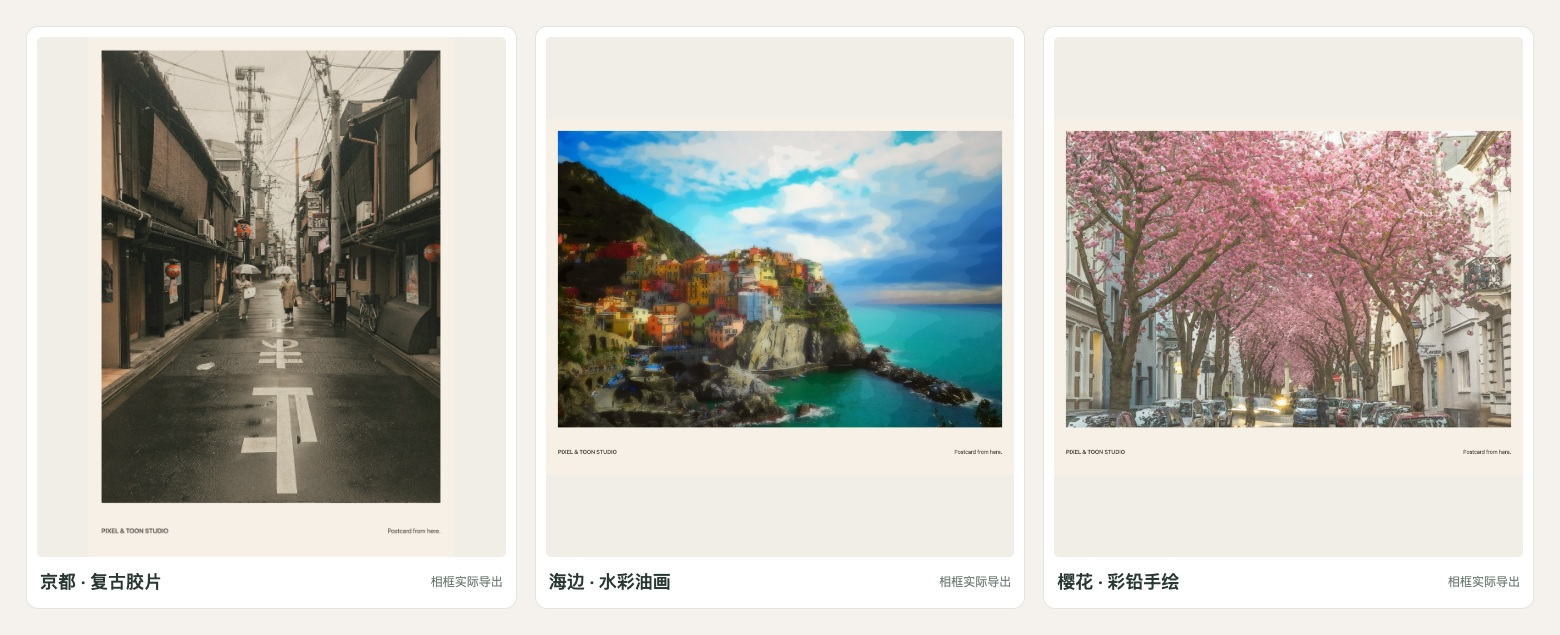
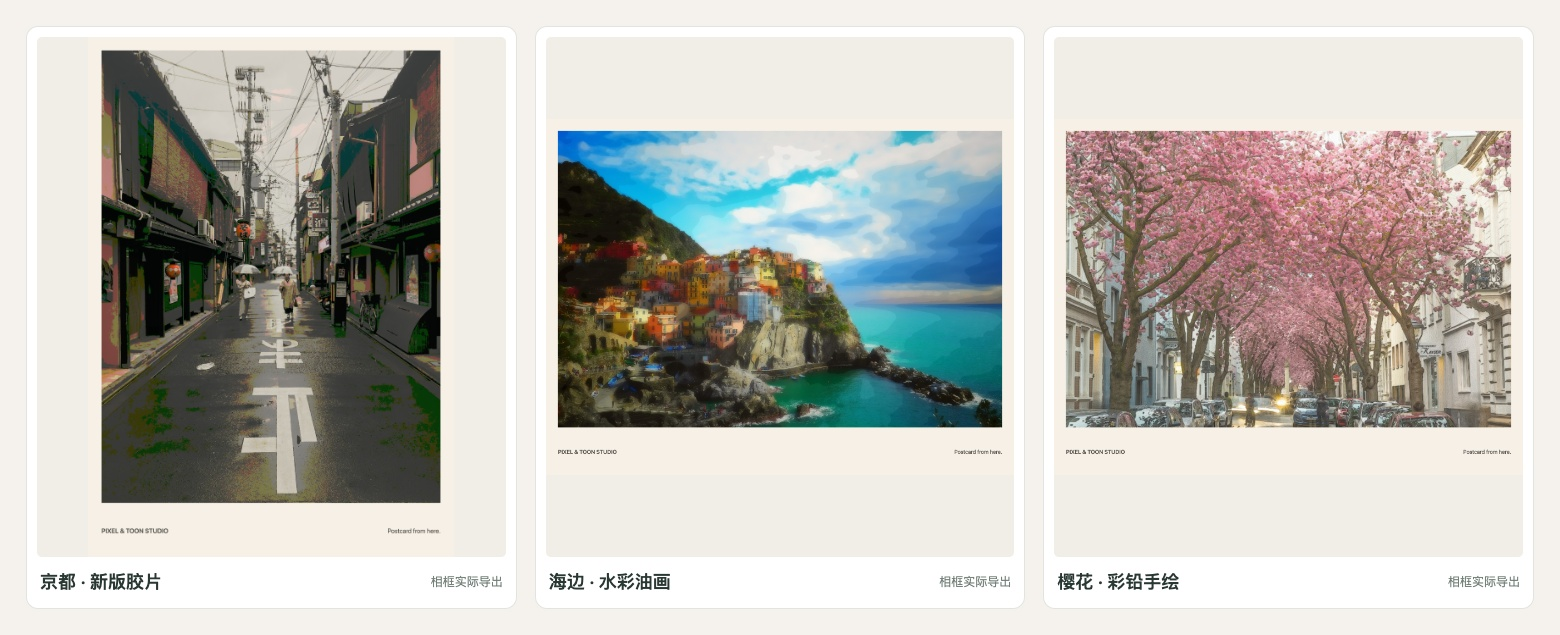
feat: strengthen vintage film and refresh Americana showcase

diff --git a/src/worker/styles/film.ts b/src/worker/styles/film.ts
@@ -6,10 +6,22 @@ import type { StyleContext } from '../shared/sampling';
 
 export const FILM = { blackLift: 31, whiteCeiling: 233, saturationLoss: .25, redGain: 22, blueGain: -25 } as const;
 export function filmRadius(halation: number, scale: number): number { return Math.ceil((4 + halation * .18) * scale); }
+export function filmSmearRadius(smear: number, scale: number): number { return smear > 0 ? Math.ceil((1 + smear * .06) * scale) : 0; }
 
 export function film(src: Uint8ClampedArray, w: number, h: number, p: Record<string, number>, ctx: StyleContext): Uint8ClampedArray {
     const out = new Uint8ClampedArray(src.length), fade = p.fade / 100, warmth = p.warmth / 100;
     const halo = p.halation / 100;
+    const smear = Math.max(0, Math.min(100, p.smear ?? 0));
+    let base = src;
+    if (smear > 0) {
+        base = src.slice();
+        const channel = new Float32Array(w * h), mix = smear / 100 * .9;
+        for (let c = 0; c < 3; c++) {
+            for (let q = 0; q < channel.length; q++) channel[q] = src[q * 4 + c];
+            const softened = boxBlur(channel, w, h, filmSmearRadius(smear, ctx.scale));
+            for (let q = 0; q < channel.length; q++) base[q * 4 + c] = src[q * 4 + c] * (1 - mix) + softened[q] * mix;
+        }
+    }
     let glow: Float32Array | null = null, mask: Float32Array | null = null;
     if (halo > 0) {
         mask = new Float32Array(w * h);
@@ -21,12 +33,12 @@ export function film(src: Uint8ClampedArray, w: number, h: number, p: Record<str
     }
     for (let y = 0; y < h; y++) for (let x = 0; x < w; x++) {
         const q = y * w + x, i = q * 4;
-        const lum = luminance(src[i], src[i + 1], src[i + 2]);
+        const lum = luminance(base[i], base[i + 1], base[i + 2]);
         const exposureGate = .45 + .55 * Math.sin(Math.PI * lum / 255);
         const spread = glow && mask ? Math.max(0, glow[q] - mask[q] * .65) * halo : 0;
         const grain = p.grain > 0 ? grainAt(ctx.originX + x, ctx.originY + y, ctx.scale, GRAIN_SEED) * p.grain * .38 * (1.2 - lum / 510) : 0;
         for (let c = 0; c < 3; c++) {
-            const desaturated = lum + (src[i + c] - lum) * (1 - FILM.saturationLoss * fade);
+            const desaturated = lum + (base[i + c] - lum) * (1 - FILM.saturationLoss * fade);
             const faded = FILM.blackLift + desaturated * (FILM.whiteCeiling - FILM.blackLift) / 255;
             const color = desaturated * (1 - fade) + faded * fade;
             const temperature = warmth * exposureGate * (c === 0 ? FILM.redGain : c === 2 ? FILM.blueGain : 2);

diff --git a/src/config/styles.ts b/src/config/styles.ts
@@ -6,7 +6,7 @@ export const STYLES = {
     manga: { name: '黑白日漫', short: '黑白日漫', en: 'MANGA INK', icon: '◩', params: { dot: { label: '网点尺寸', min: 3, max: 12, default: 6, unit: 'px' }, ink: { label: '墨线强度', min: 0, max: 100, default: 76, unit: '%' }, levels: { label: '阴影层次', min: 2, max: 6, default: 4, unit: '级' }, white: { label: '留白保护', min: 0, max: 100, default: 72, unit: '%' } } },
     pencil: { name: '彩铅手绘', short: '彩铅手绘', en: 'COLOR PENCIL', icon: '✎', params: { stroke: { label: '笔触尺寸', min: 1, max: 8, default: 3, unit: 'px' }, line: { label: '线稿强度', min: 0, max: 100, default: 62, unit: '%' }, pigment: { label: '彩铅浓度', min: 0, max: 100, default: 68, unit: '%' }, paper: { label: '纸张质感', min: 0, max: 100, default: 24, unit: '%' } } },
     duotone: { name: '双色海报', short: '双色海报', en: 'DUOTONE', icon: '◐', params: { shadowHue: { label: '暗部色相', min: 0, max: 359, default: 225, unit: '°' }, highlightHue: { label: '亮部色相', min: 0, max: 359, default: 35, unit: '°' }, split: { label: '分色位置', min: 0, max: 100, default: 52, unit: '%' }, detail: { label: '层次保留', min: 0, max: 100, default: 42, unit: '%' } } },
-    film: { name: '复古胶片', short: '复古胶片', en: 'VINTAGE FILM', icon: '▤', params: { fade: { label: '褪色强度', min: 0, max: 100, default: 38, unit: '%' }, grain: { label: '颗粒强度', min: 0, max: 100, default: 28, unit: '%' }, warmth: { label: '色温', min: -100, max: 100, default: 24, unit: '' }, halation: { label: '高光晕染', min: 0, max: 100, default: 22, unit: '%' } } }
+    film: { name: '复古胶片', short: '复古胶片', en: 'VINTAGE FILM', icon: '▤', params: { fade: { label: '褪色强度', min: 0, max: 100, default: 48, unit: '%' }, grain: { label: '颗粒强度', min: 0, max: 100, default: 64, unit: '%' }, smear: { label: '柔化涂抹', min: 0, max: 100, default: 45, unit: '%' }, warmth: { label: '色温', min: -100, max: 100, default: 24, unit: '' }, halation: { label: '高光晕染', min: 0, max: 100, default: 38, unit: '%' } } }
 } as const;
 export type StyleId = keyof typeof STYLES;
 export type ParamsByStyle = Record<StyleId, Record<string, number>>;

diff --git a/tests/history.test.ts b/tests/history.test.ts
@@ -5,6 +5,16 @@ import { defaultParams, STYLES } from '../src/config/styles';
 import type { History } from '../src/types/document';
 
 describe('saved workspace normalization', () => {
+    it('keeps diffusion off for existing film edits and preserves it in new edits', () => {
+        const old = initialSnapshot();
+        old.styleId = 'film';
+        old.params.film = { fade: 38, grain: 28, warmth: 24, halation: 22 };
+        const restored = normalizeHistory({ entries: [old], cursor: 0 }).entries[0];
+        expect(restored.params.film).toEqual({ ...old.params.film, smear: 0 });
+        expect(initialSnapshot().params.film.smear).toBeGreaterThan(0);
+        const current = initialSnapshot(); current.params.film.smear = 72;
+        expect(normalizeHistory({ entries: [current], cursor: 0 }).entries[0].params.film.smear).toBe(72);
+    });
     it('replaces retired captions and upgrades previous watercolor semantics', () => {
         const saved = initialSnapshot();
         saved.styleId = 'watercolor';
@@ -61,7 +71,7 @@ describe('saved workspace normalization', () => {
         history = commit(history, { ...structuredClone(history.entries[0]), styleId: 'film' });
         const changed = structuredClone(history.entries[1]); changed.params.film.grain = 80;
         history = commit(history, changed);
-        expect(moveHistory(history, -1).entries[1].params.film.grain).toBe(28);
+        expect(moveHistory(history, -1).entries[1].params.film.grain).toBe(defaultParams().film.grain);
         history = moveHistory(history, -1); expect(history.cursor).toBe(1);
         history = moveHistory(history, 1); expect(history.entries[history.cursor].params.film.grain).toBe(80);
         expect(normalizeHistory(history)).toEqual(history);

diff --git a/tests/new-styles.test.ts b/tests/new-styles.test.ts
@@ -72,6 +72,27 @@ describe('new style contracts', () => {
             expect(variance).toBeGreaterThan(previous); previous = variance;
         }
     });
+    it('film diffusion softens fine detail without adding noise or tint to a flat field', () => {
+        const w = 96, h = 72, source = flat(w, h, 128);
+        for (let y = 0; y < h; y++) for (let x = 0; x < w; x++) {
+            const value = (x + y) % 2 ? 220 : 36;
+            for (let c = 0; c < 3; c++) source[(y * w + x) * 4 + c] = value;
+        }
+        const neutral = { fade: 0, warmth: 0, halation: 0, grain: 0, smear: 0 };
+        expect(processStyle('film', source, w, h, neutral)).toEqual(source);
+        const softened = processStyle('film', source, w, h, { ...neutral, smear: 100 });
+        let sourceVariation = 0, softVariation = 0;
+        for (let y = 12; y < h - 12; y++) for (let x = 12; x < w - 12; x++) {
+            const i = (y * w + x) * 4;
+            sourceVariation += Math.abs(source[i] - 128);
+            softVariation += Math.abs(softened[i] - 128);
+            expect(softened[i]).toBe(softened[i + 1]);
+            expect(softened[i]).toBe(softened[i + 2]);
+        }
+        expect(softVariation / sourceVariation).toBeLessThan(.2);
+        const uniform = flat(w, h, 128);
+        expect(processStyle('film', uniform, w, h, { ...neutral, smear: 100 })).toEqual(uniform);
+    });
     it('film halation is confined to the neighborhood of highlights', () => {
         const w = 128, h = 96, src = flat(w, h, 50);
         for (let y = 44; y < 50; y++) for (let x = 60; x < 66; x++) for (let c = 0; c < 3; c++) src[(y * w + x) * 4 + c] = 255;

diff --git a/src/imaging/exportHalo.ts b/src/imaging/exportHalo.ts
@@ -1,6 +1,6 @@
 import { EXPORT_HALO, PENCIL_STYLE_SIDE, PREVIEW_SIDE, WATERCOLOR_STYLE_SIDE } from '../config/limits';
 import type { StyleId } from '../config/styles';
-import { filmRadius } from '../worker/styles/film';
+import { filmRadius, filmSmearRadius } from '../worker/styles/film';
 
 export function exportHalo(styleId: StyleId, params: Record<string, number>, scale: number, fullWidth: number, fullHeight: number): number {
     switch (styleId) {
@@ -12,7 +12,7 @@ export function exportHalo(styleId: StyleId, params: Record<string, number>, sca
         case 'duotone':
             return Math.max(EXPORT_HALO, Math.ceil(12 * Math.max(1, Math.max(fullWidth, fullHeight) / PREVIEW_SIDE)));
         case 'film':
-            return Math.max(EXPORT_HALO, filmRadius(params.halation, scale) + 2);
+            return Math.max(EXPORT_HALO, filmRadius(params.halation, scale) + 2, filmSmearRadius(params.smear ?? 0, scale) + 2);
         default:
             return Math.max(EXPORT_HALO, Math.ceil(16 * scale) + 4);
     }

diff --git a/src/state/history.ts b/src/state/history.ts
@@ -18,6 +18,8 @@ export function normalizeHistory(history: History | undefined, legacyWatercolor 
             for (const key of Object.keys(definitions)) {
                 const candidate = raw?.params?.[id]?.[key];
                 let value = Number.isFinite(candidate) ? candidate : definitions[key].default;
+                // Existing film edits predate diffusion. Preserve those saved results.
+                if (id === 'film' && key === 'smear' && raw?.params?.film && !Number.isFinite(candidate)) value = 0;
                 if (legacyWatercolor && id === 'watercolor' && Number.isFinite(candidate)) {
                     if (key === 'radius') value = Math.min(12, value + 1);
                     if (key === 'smear') value = Math.round(Math.sqrt(Math.max(0, value) / 100) * 100);

diff --git a/tests/tiling.test.ts b/tests/tiling.test.ts
@@ -8,7 +8,7 @@ describe('new styles: global grid and export seams', () => {
         it(`${id}: ${w}x${h}, irregular tiles ${tileSide}`, () => {
             const source = fixture(w, h), params = { ...defaultParams()[id] };
             // Maximum support is important: halo must also be safe at slider endpoints.
-            if (id === 'film') params.halation = 100;
+            if (id === 'film') { params.halation = 100; params.smear = 100; }
             if (id === 'pencil') params.stroke = 8;
             if (id === 'manga') params.dot = 12;
             const scale = Math.max(1, Math.max(w, h) / 1600), halo = exportHalo(id, params, scale, w, h);

diff --git a/docs/showcase/SOURCES.md b/docs/showcase/SOURCES.md
@@ -1,36 +1,41 @@
 # 展示图片与原片来源
 
-README 展示的是 Pixel & Toon Studio v1.0.0 实际处理这三张照片的结果。照片来自 Unsplash，按 [Unsplash License](https://unsplash.com/license) 用于产品效果展示。照片版权仍归原摄影师，项目的 MIT 许可证不改变照片本身的许可。
+README 展示的是 Pixel & Toon Studio 实际处理这些照片的结果。照片来自 Unsplash，按 [Unsplash License](https://unsplash.com/license) 用于产品效果展示。照片版权仍归原摄影师，项目的 MIT 许可证不改变照片本身的许可。
 
-## 三张原片
+## 原片
 
 | 编号 | 照片 | 摄影师 | 来源 |
 | --- | --- | --- | --- |
 | C | 京都雨巷，撑伞的行人与传统建筑 | Hamza ERBAY | [Unsplash 原片](https://unsplash.com/photos/woman-holding-grey-umbrella-iRx2qFPhgk4) |
 | D | 意大利五渔村的彩色房屋与海岸 | Sung Jin Cho | [Unsplash 原片](https://unsplash.com/photos/buildings-on-cliff-during-daytime-bwORldZq6BI) |
 | E | 德国波恩的樱花街道 | Stephan Widua | [Unsplash 原片](https://unsplash.com/it/foto/albero-di-ciliegio-rosa-vicino-alle-auto-parcheggiate-in-strada-durante-il-giorno-ae4VmMbhanQ) |
+| F | 美式餐厅与老车 | Preston Bousley | [Unsplash 原片](https://unsplash.com/photos/a-red-car-parked-in-front-of-a-restaurant-WUmW5MR0cyQ) |
 
-为控制展示素材与处理时间，输入下载为宽 1600 px 的 JPEG：C 为 1600 × 2133，D 与 E 为 1600 × 1067。样例图片不代表摄影师或图中人物对项目的认可。
+为控制展示素材与处理时间，输入下载为宽 1600 px 的 JPEG：C 为 1600 × 2133，D 与 E 为 1600 × 1067。F 同样以宽 1600 px JPEG 作为输入。样例图片不代表摄影师、照片中的人物、商家或车辆品牌对项目的认可。照片许可不自动涵盖人物肖像、商标等其他权利。
 
 ## 实际处理方式
 
-- 所有艺术风格样例均使用当前生产构建，通过真实编辑器导入并导出 PNG；使用风格默认参数，智能调色与照片增强关闭。
+- 所有艺术风格样例均使用当前生产构建，通过真实编辑器导入并导出 PNG；使用风格默认参数，智能调色与照片增强关闭。胶片与美式波普展示来自 v1.0.1；其他风格与 v1.0.0 的处理算法相同。
 - `editor.jpg` 是应用真实界面的截图：导入三张照片，海滨小镇选择水彩油画，并开启左右对比。
 - `kyoto.jpg` 是 C 原图、默认复古胶片和默认黑白日漫的并排展示。
 - `coast.jpg` 是 D 原图、默认赛璐璐和默认水彩油画的并排展示。
 - `blossoms.jpg` 是 E 原图、默认水彩油画和默认彩铅手绘的并排展示。
-- `styles.jpg` 展示八种风格，分别选用 C、D、E 的实际输出。缩略图为统一网格尺寸进行了裁切，各场景对比图与 PNG 文件保留完整构图。
-- `frames.jpg` 是 C 复古胶片、D 水彩油画、E 彩铅手绘的相框 PNG 成品。三张都选择应用内文案 Postcard from here.。
+- `styles.jpg` 展示八种风格，分别选用 C、D、E、F 的实际输出；波普使用 F，胶片使用 v1.0.1 新默认。缩略图为统一网格尺寸进行了裁切，各场景对比图与 PNG 文件保留完整构图。
+- `americana.jpg` 是 F 原图与默认美漫波普，不叠加智能调色。
+- `film.jpg` 比较 C 原图、v1.0.0 原版胶片与 v1.0.1 新版胶片，下面是三个相同位置的 1:1 局部。新版默认：褪色 48、颗粒 64、柔化涂抹 45、色温 24、高光晕染 38；原版为 38、28、0、24、22。
+- `frames.jpg` 是 C 新版复古胶片、D 水彩油画、E 彩铅手绘的相框 PNG 成品。三张都选择应用内文案 Postcard from here.。
 - `enhancement.jpg` 使用 D 经浏览器高质量缩小得到的 600 × 400 输入，经实际 LiveAction 生成 1200 × 800 输出，与同一输入的浏览器高质量插值放大比较。两边均截取输出坐标 x=260、y=290、宽 503、高 300 的相同区域，以 1:1 像素显示；不叠加艺术风格。
 
 排版图只进行缩放、组合与 JPEG 压缩，没有使用生成式图片、局部修补或额外调色来替代软件效果。
 
 ## 可直接打开的成品
 
-`samples/` 下三张 PNG 是编辑器直接导出的文件，没有再次压缩或修改：
+`samples/` 下的 PNG 是编辑器直接导出的文件，没有再次压缩或修改：
 
 - [京都 · 黑白日漫](samples/kyoto-manga.png)
 - [海滨小镇 · 水彩油画](samples/coast-watercolor.png)
 - [樱花街道 · 彩铅手绘](samples/blossoms-pencil.png)
+- [美式餐厅 · 美漫波普](samples/americana-pop.png)
+- [京都 · 新版复古胶片](samples/kyoto-film.png)
 
 这些展示素材与 tests/fixtures 中用于代码回归的测试样片用途独立。README 不再使用宇航员或猫咪测试图作为产品展示。

diff --git a/README.md b/README.md
@@ -20,11 +20,11 @@ Pixel & Toon Studio 就是用来做这件小事的。导入照片，选个风格
 
 ## 先看几张实际效果
 
-这次选了三张很不一样的照片：雨中的京都、海边的彩色小镇，还有开满樱花的街道。下面都是当前版本实际导出的效果，使用默认参数，没有额外修图。
+这里用了四种场景：京都雨巷、彩色海滨小镇、樱花街道，还有一家美式餐厅。下面都是当前版本实际导出的效果，使用默认参数，没有额外修图。
 
 ### 雨天的京都，试试漫画分镜
 
-这张的电线、屋檐和招牌很多，适合看线条处理。复古胶片保留了街巷的棕色调，多一点颗粒感；换成黑白日漫，注意力就更多落在轮廓、阴影和路面的反光上。
+这张的电线、屋檐和招牌很多，适合看线条处理。新版复古胶片保留了街巷的棕色调，颗粒更明显，也带一点柔化；换成黑白日漫，注意力就更多落在轮廓、阴影和路面的反光上。
 
 ![京都雨巷：原图、复古胶片、黑白日漫实际对比](docs/showcase/kyoto.jpg)
 
@@ -46,6 +46,24 @@ Pixel & Toon Studio 就是用来做这件小事的。导入照片，选个风格
 
 [打开彩铅手绘 PNG 大图](docs/showcase/samples/blossoms-pencil.png)
 
+### 美漫波普，换个更美式的场景
+
+这次换成了公路边的餐厅和老车。红色雨棚、霓虹招牌、车身轮廓放在一起，更适合看漫画分色、网点和墨线的变化。下面就是默认波普效果，没有再开智能调色。
+
+![美式餐厅与老车：原图和美漫波普实际输出](docs/showcase/americana.jpg)
+
+[打开美漫波普 PNG 大图](docs/showcase/samples/americana-pop.png)
+
+### 胶片这次做重了一点
+
+上一版太轻了，缩成小图几乎看不出变化。这次把默认颗粒从 28 加到 64，增加了独立的「柔化涂抹」滑块，褪色和高光晕染也一起加重。细节会软下来，但颗粒是在柔化之后加的，不会跟着一起被抹掉。
+
+![京都雨巷：原图、原版胶片与新版胶片，下面是同位置的局部对比](docs/showcase/film.jpg)
+
+[打开新版胶片 PNG 大图](docs/showcase/samples/kyoto-film.png)
+
+这是 **v1.0.1** 的新默认效果，喜欢淡一点也可以往回收。已经编辑过的照片会沿用保存的设置；想试新默认，可以重新导入照片，或双击各个滑块复位。
+
 ## 还可以换这些风格
 
 一共八种：**赛璐璐、像素线条、水彩油画、美漫波普、黑白日漫、彩铅手绘、双色海报、复古胶片**。不同照片适合的风格也不同，所以这里没有强行让同一张图套满八遍。
@@ -58,7 +76,7 @@ Pixel & Toon Studio 就是用来做这件小事的。导入照片，选个风格
 
 打开拍立得相框，挑一句文案，再导出就好了。这里用了同一句 **“Postcard from here.”**，放在三张不同的旅行照片上。
 
-![京都胶片、海边水彩与樱花彩铅的真实相框成品](docs/showcase/frames.jpg)
+![京都新版胶片、海边水彩与樱花彩铅的真实相框成品](docs/showcase/frames.jpg)
 
 内置 48 条中英文短句，可以按主题和语言挑。边框和文字会一起印进导出的 PNG 里，不用再去别的软件拼一次。
 
@@ -100,6 +118,6 @@ Pixel & Toon Studio 就是用来做这件小事的。导入照片，选个风格
 
 ---
 
-谢谢三张原片的摄影师：**Hamza ERBAY、Sung Jin Cho、Stephan Widua**。[原图与展示制作说明](docs/showcase/SOURCES.md)里保留了来源。画廊为了便于浏览做了缩放、排版和 JPEG 压缩，文中的 PNG 链接是软件直接导出的文件。
+谢谢原片的摄影师：**Hamza ERBAY、Sung Jin Cho、Stephan Widua、Preston Bousley**。[原图与展示制作说明](docs/showcase/SOURCES.md)里保留了来源。画廊为了便于浏览做了缩放、排版和 JPEG 压缩，文中的 PNG 链接是软件直接导出的文件。
 
 [文案来源](docs/CAPTION_SOURCES.md) · [第三方许可](desktop/THIRD_PARTY_NOTICES.md) · [MIT License](LICENSE)

diff --git a/docs/DEVELOPMENT.md b/docs/DEVELOPMENT.md
@@ -1,6 +1,6 @@
 # 开发与运行
 
-应用版本：1.0.0。Mac 桌面版与网页版共用 React 编辑器、图像处理和模型推理代码。需要 Node.js 20+；Mac 打包需要 macOS。
+应用版本：1.0.1。Mac 桌面版与网页版共用 React 编辑器、图像处理和模型推理代码。需要 Node.js 20+；Mac 打包需要 macOS。
 
 ## 本地启动
 
